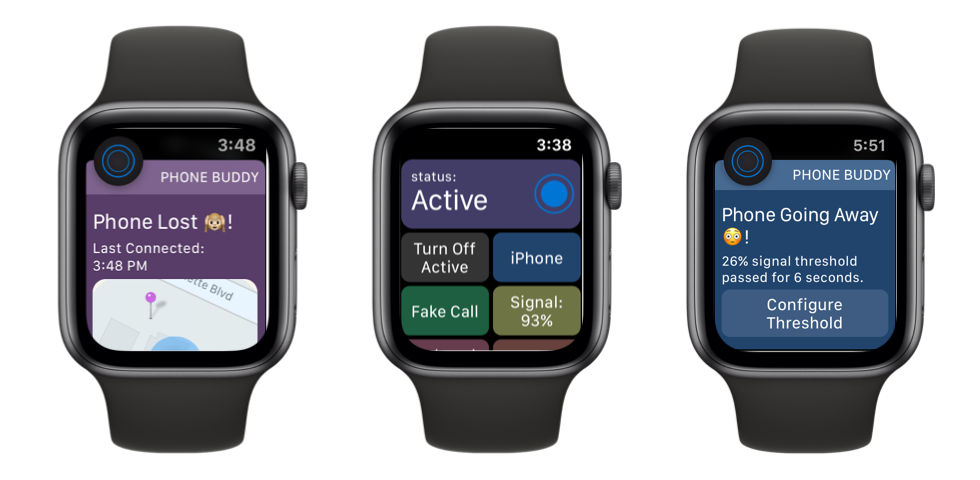
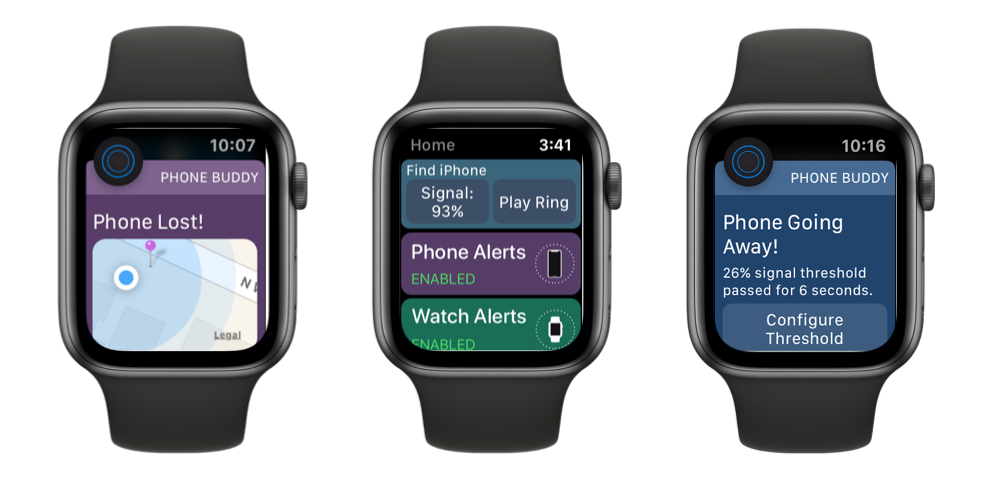
updates for version 6.0

diff --git a/index.html b/index.html
@@ -4,53 +4,49 @@
 <head>
 
     <meta charset="utf-8">
-    <title>Phone Buddy Notifier</title>
+    <title>Phone Buddy Alarm</title>
     <meta name="apple-itunes-app" content="app-id=1451559391, affiliate-data=ct=WebsiteHome"/>
-    <meta name="description" content="The only Apple Watch app you need. Phone Buddy on Apple Watch alerts you if you lose bluetooth connection with your iPhone and reminds you if you forget your Apple Watch. Phone Buddy is an Apple Watch app that alerts you when you lose bluetooth connection with your iPhone. Try it now. Apple Watch Series 2+ is required.
+    <meta name="description" content="The only Apple Watch app you need. Phone Buddy on Apple Watch alerts you if you lose bluetooth connection with your iPhone and reminds you if you forget your Apple Watch. Phone Buddy Alarm is an Apple Watch app that alerts you when you lose bluetooth connection with your iPhone. Try it now. Apple Watch Series 2+ is required.
 
-    Phone Buddy keeps track of your Apple Watch and alerts you when needed. Phone Buddy Alerts can be configured to display when your iPhone connection is lost, when Apple Watch battery has completed charging, or when devices move apart!
+    Phone Buddy keeps track of your Apple Watch and alerts you when needed. Phone Buddy Alerts can be configured to display when your iPhone connection is lost, when you leave your Apple Watch behind, or when devices move apart! With Phone Buddy Alarm, if you step away from your iPhone, you get a notification on your Apple Watch! It’s that simple. 
     
-    Phone Buddy is the perfect companion app for Apple Watch with features like Bluetooth Monitoring Alerts, Last Connected Map to help locating iPhone, and Fake Call to use your Apple Watch to play a Ringtone on your iPhone! 
+    You can even configure a loud alarm so you know for sure when your devices may be need to retrieved. 
     
-    Phone Buddy Bluetooth Monitoring Alerts
-    - Lost Phone Alert (with Active Mode)
-    - Distance Alerts with fully customizable signal strength and time thresholds! 
-    - Battery Charged Alert 
-    - Watch Left Behind Alert 
+    Phone Buddy Alarm is the perfect companion app for the Apple Watch with features like Bluetooth Monitoring Alerts, Watch Battery Charged Alert, and Last Connected Map. 
     
-    Phone Buddy Features
-    - Last Connected Map to help located iPhone (when network connectivity available)
-    - Monitor Bluetooth Connection Signal Strength
-    - iPhone Info and Bluetooth Monitoring alert management directly on the Apple Watch. 
-    - Play a ringtone on your iPhone using Fake Call from your Apple Watch even when the iPhone is on silent
-    - Configure a loud Alarm to play when bluetooth connection is lost between your Apple Watch and iPhone
+    Phone Buddy Bluetooth Monitoring Features
+    - “Phone Lost” Connection Alert so you never lose your phone again. 
+    - “Going Away” Distance Alerts with fully customizable bluetooth signal strength thresholds so you keep your devices safe and secure. 
+    - “Watch Left Behind” Connection Alert so you don’t forget to wear your Apple Watch when you leave your home. 
+    - “Watch Battery Charged” Alert lets you know when your Apple Watch is ready to go. 
+    - Phone Safety Alarm plays a loud Alarm when bluetooth connection is lost between your Apple Watch and iPhone to keep everything safe. 
+    - Last Connected Map to help located iPhone (when network connectivity available) if your devices do disconnect.
+    And more! 
     
-    Don't forget your iPhone again using Phone Buddy for Apple Watch! Phone Buddy notifies your Apple Watch the moment bluetooth connection is lost with your iPhone. If someone takes your iPhone, Phone Buddy will alert you with a Phone Lost Safety Notification. Phone Buddy is better than phone insurance since it helps prevent a loss! 
+    Don't forget your iPhone again using Phone Buddy Alarm for Apple Watch! Phone Buddy notifies your Apple Watch the moment bluetooth connection is lost with your iPhone. If someone takes your iPhone, Phone Buddy will alert you with a Phone Lost Safety Notification. Phone Buddy is better than phone insurance since it helps prevent a loss! 
     
     Download Phone Buddy now and never lose your phone again.">
     <meta name="viewport" content="width=device-width, initial-scale=1">
 
-    <meta property="og:title" content="Phone Buddy Notifier" />
-    <meta property="og:description" content="The only Apple Watch app you need. Phone Buddy on Apple Watch alerts you if you lose bluetooth connection with your iPhone and reminds you if you forget your Apple Watch. Phone Buddy is an Apple Watch app that alerts you when you lose bluetooth connection with your iPhone. Try it now. Apple Watch Series 2+ is required.
+    <meta property="og:title" content="Phone Buddy Alarm" />
+    <meta property="og:description" content="The only Apple Watch app you need. Phone Buddy on Apple Watch alerts you if you lose bluetooth connection with your iPhone and reminds you if you forget your Apple Watch. Phone Buddy Alarm is an Apple Watch app that alerts you when you lose bluetooth connection with your iPhone. Try it now. Apple Watch Series 2+ is required.
 
-    Phone Buddy keeps track of your Apple Watch and alerts you when needed. Phone Buddy Alerts can be configured to display when your iPhone connection is lost, when Apple Watch battery has completed charging, or when devices move apart!
+    Phone Buddy keeps track of your Apple Watch and alerts you when needed. Phone Buddy Alerts can be configured to display when your iPhone connection is lost, when you leave your Apple Watch behind, or when devices move apart! With Phone Buddy Alarm, if you step away from your iPhone, you get a notification on your Apple Watch! It’s that simple. 
     
-    Phone Buddy is the perfect companion app for Apple Watch with features like Bluetooth Monitoring Alerts, Last Connected Map to help locating iPhone, and Fake Call to use your Apple Watch to play a Ringtone on your iPhone! 
+    You can even configure a loud alarm so you know for sure when your devices may be need to retrieved. 
     
-    Phone Buddy Bluetooth Monitoring Alerts
-    - Lost Phone Alert (with Active Mode)
-    - Distance Alerts with fully customizable signal strength and time thresholds! 
-    - Battery Charged Alert 
-    - Watch Left Behind Alert 
+    Phone Buddy Alarm is the perfect companion app for the Apple Watch with features like Bluetooth Monitoring Alerts, Watch Battery Charged Alert, and Last Connected Map. 
     
-    Phone Buddy Features
-    - Last Connected Map to help located iPhone (when network connectivity available)
-    - Monitor Bluetooth Connection Signal Strength
-    - iPhone Info and Bluetooth Monitoring alert management directly on the Apple Watch. 
-    - Play a ringtone on your iPhone using Fake Call from your Apple Watch even when the iPhone is on silent
-    - Configure a loud Alarm to play when bluetooth connection is lost between your Apple Watch and iPhone
+    Phone Buddy Bluetooth Monitoring Features
+    - “Phone Lost” Connection Alert so you never lose your phone again. 
+    - “Going Away” Distance Alerts with fully customizable bluetooth signal strength thresholds so you keep your devices safe and secure. 
+    - “Watch Left Behind” Connection Alert so you don’t forget to wear your Apple Watch when you leave your home. 
+    - “Watch Battery Charged” Alert lets you know when your Apple Watch is ready to go. 
+    - Phone Safety Alarm plays a loud Alarm when bluetooth connection is lost between your Apple Watch and iPhone to keep everything safe. 
+    - Last Connected Map to help located iPhone (when network connectivity available) if your devices do disconnect.
+    And more! 
     
-    Don't forget your iPhone again using Phone Buddy for Apple Watch! Phone Buddy notifies your Apple Watch the moment bluetooth connection is lost with your iPhone. If someone takes your iPhone, Phone Buddy will alert you with a Phone Lost Safety Notification. Phone Buddy is better than phone insurance since it helps prevent a loss! 
+    Don't forget your iPhone again using Phone Buddy Alarm for Apple Watch! Phone Buddy notifies your Apple Watch the moment bluetooth connection is lost with your iPhone. If someone takes your iPhone, Phone Buddy will alert you with a Phone Lost Safety Notification. Phone Buddy is better than phone insurance since it helps prevent a loss! 
     
     Download Phone Buddy now and never lose your phone again."/>
     <meta property="og:type" content="website" />
@@ -179,7 +175,7 @@
         </div>
         <div class="row buttons">
             <a href="https://itunes.apple.com/app/apple-store/id1451559391?pt=1925860&ct=WebsiteHome&mt=8">    
-                <img src="appStore.png" alt="Phone Buddy Notifier App Store Link">
+                <img src="appStore.png" alt="Phone Buddy Alarm App Store Link">
             </a>
         </div>
 

diff --git a/app.html b/app.html
@@ -4,53 +4,49 @@
 <head>
 
     <meta charset="utf-8">
-    <title>Phone Buddy Notifier</title>
+    <title>Phone Buddy Alarm</title>
     <meta name="apple-itunes-app" content="app-id=1451559391, affiliate-data=ct=instaApp0"/>
-    <meta name="description" content="The only Apple Watch app you need. Phone Buddy on Apple Watch alerts you if you lose bluetooth connection with your iPhone and reminds you if you forget your Apple Watch. Phone Buddy is an Apple Watch app that alerts you when you lose bluetooth connection with your iPhone. Try it now. Apple Watch Series 2+ is required.
+    <meta name="description" content="The only Apple Watch app you need. Phone Buddy on Apple Watch alerts you if you lose bluetooth connection with your iPhone and reminds you if you forget your Apple Watch. Phone Buddy Alarm is an Apple Watch app that alerts you when you lose bluetooth connection with your iPhone. Try it now. Apple Watch Series 2+ is required.
 
-    Phone Buddy keeps track of your Apple Watch and alerts you when needed. Phone Buddy Alerts can be configured to display when your iPhone connection is lost, when Apple Watch battery has completed charging, or when devices move apart!
+    Phone Buddy keeps track of your Apple Watch and alerts you when needed. Phone Buddy Alerts can be configured to display when your iPhone connection is lost, when you leave your Apple Watch behind, or when devices move apart! With Phone Buddy Alarm, if you step away from your iPhone, you get a notification on your Apple Watch! It’s that simple. 
     
-    Phone Buddy is the perfect companion app for Apple Watch with features like Bluetooth Monitoring Alerts, Last Connected Map to help locating iPhone, and Fake Call to use your Apple Watch to play a Ringtone on your iPhone! 
+    You can even configure a loud alarm so you know for sure when your devices may be need to retrieved. 
     
-    Phone Buddy Bluetooth Monitoring Alerts
-    - Lost Phone Alert (with Active Mode)
-    - Distance Alerts with fully customizable signal strength and time thresholds! 
-    - Battery Charged Alert 
-    - Watch Left Behind Alert 
+    Phone Buddy Alarm is the perfect companion app for the Apple Watch with features like Bluetooth Monitoring Alerts, Watch Battery Charged Alert, and Last Connected Map. 
     
-    Phone Buddy Features
-    - Last Connected Map to help located iPhone (when network connectivity available)
-    - Monitor Bluetooth Connection Signal Strength
-    - iPhone Info and Bluetooth Monitoring alert management directly on the Apple Watch. 
-    - Play a ringtone on your iPhone using Fake Call from your Apple Watch even when the iPhone is on silent
-    - Configure a loud Alarm to play when bluetooth connection is lost between your Apple Watch and iPhone
+    Phone Buddy Bluetooth Monitoring Features
+    - “Phone Lost” Connection Alert so you never lose your phone again. 
+    - “Going Away” Distance Alerts with fully customizable bluetooth signal strength thresholds so you keep your devices safe and secure. 
+    - “Watch Left Behind” Connection Alert so you don’t forget to wear your Apple Watch when you leave your home. 
+    - “Watch Battery Charged” Alert lets you know when your Apple Watch is ready to go. 
+    - Phone Safety Alarm plays a loud Alarm when bluetooth connection is lost between your Apple Watch and iPhone to keep everything safe. 
+    - Last Connected Map to help located iPhone (when network connectivity available) if your devices do disconnect.
+    And more! 
     
-    Don't forget your iPhone again using Phone Buddy for Apple Watch! Phone Buddy notifies your Apple Watch the moment bluetooth connection is lost with your iPhone. If someone takes your iPhone, Phone Buddy will alert you with a Phone Lost Safety Notification. Phone Buddy is better than phone insurance since it helps prevent a loss! 
+    Don't forget your iPhone again using Phone Buddy Alarm for Apple Watch! Phone Buddy notifies your Apple Watch the moment bluetooth connection is lost with your iPhone. If someone takes your iPhone, Phone Buddy will alert you with a Phone Lost Safety Notification. Phone Buddy is better than phone insurance since it helps prevent a loss! 
     
     Download Phone Buddy now and never lose your phone again.">
     <meta name="viewport" content="width=device-width, initial-scale=1">
 
-    <meta property="og:title" content="Phone Buddy Notifier" />
-    <meta property="og:description" content="The only Apple Watch app you need. Phone Buddy on Apple Watch alerts you if you lose bluetooth connection with your iPhone and reminds you if you forget your Apple Watch. Phone Buddy is an Apple Watch app that alerts you when you lose bluetooth connection with your iPhone. Try it now. Apple Watch Series 2+ is required.
+    <meta property="og:title" content="Phone Buddy Alarm" />
+    <meta property="og:description" content="The only Apple Watch app you need. Phone Buddy on Apple Watch alerts you if you lose bluetooth connection with your iPhone and reminds you if you forget your Apple Watch. Phone Buddy Alarm is an Apple Watch app that alerts you when you lose bluetooth connection with your iPhone. Try it now. Apple Watch Series 2+ is required.
 
-    Phone Buddy keeps track of your Apple Watch and alerts you when needed. Phone Buddy Alerts can be configured to display when your iPhone connection is lost, when Apple Watch battery has completed charging, or when devices move apart!
+    Phone Buddy keeps track of your Apple Watch and alerts you when needed. Phone Buddy Alerts can be configured to display when your iPhone connection is lost, when you leave your Apple Watch behind, or when devices move apart! With Phone Buddy Alarm, if you step away from your iPhone, you get a notification on your Apple Watch! It’s that simple. 
     
-    Phone Buddy is the perfect companion app for Apple Watch with features like Bluetooth Monitoring Alerts, Last Connected Map to help locating iPhone, and Fake Call to use your Apple Watch to play a Ringtone on your iPhone! 
+    You can even configure a loud alarm so you know for sure when your devices may be need to retrieved. 
     
-    Phone Buddy Bluetooth Monitoring Alerts
-    - Lost Phone Alert (with Active Mode)
-    - Distance Alerts with fully customizable signal strength and time thresholds! 
-    - Battery Charged Alert 
-    - Watch Left Behind Alert 
+    Phone Buddy Alarm is the perfect companion app for the Apple Watch with features like Bluetooth Monitoring Alerts, Watch Battery Charged Alert, and Last Connected Map. 
     
-    Phone Buddy Features
-    - Last Connected Map to help located iPhone (when network connectivity available)
-    - Monitor Bluetooth Connection Signal Strength
-    - iPhone Info and Bluetooth Monitoring alert management directly on the Apple Watch. 
-    - Play a ringtone on your iPhone using Fake Call from your Apple Watch even when the iPhone is on silent
-    - Configure a loud Alarm to play when bluetooth connection is lost between your Apple Watch and iPhone
+    Phone Buddy Bluetooth Monitoring Features
+    - “Phone Lost” Connection Alert so you never lose your phone again. 
+    - “Going Away” Distance Alerts with fully customizable bluetooth signal strength thresholds so you keep your devices safe and secure. 
+    - “Watch Left Behind” Connection Alert so you don’t forget to wear your Apple Watch when you leave your home. 
+    - “Watch Battery Charged” Alert lets you know when your Apple Watch is ready to go. 
+    - Phone Safety Alarm plays a loud Alarm when bluetooth connection is lost between your Apple Watch and iPhone to keep everything safe. 
+    - Last Connected Map to help located iPhone (when network connectivity available) if your devices do disconnect.
+    And more! 
     
-    Don't forget your iPhone again using Phone Buddy for Apple Watch! Phone Buddy notifies your Apple Watch the moment bluetooth connection is lost with your iPhone. If someone takes your iPhone, Phone Buddy will alert you with a Phone Lost Safety Notification. Phone Buddy is better than phone insurance since it helps prevent a loss! 
+    Don't forget your iPhone again using Phone Buddy Alarm for Apple Watch! Phone Buddy notifies your Apple Watch the moment bluetooth connection is lost with your iPhone. If someone takes your iPhone, Phone Buddy will alert you with a Phone Lost Safety Notification. Phone Buddy is better than phone insurance since it helps prevent a loss! 
     
     Download Phone Buddy now and never lose your phone again."/>
     <meta property="og:type" content="website" />
@@ -179,7 +175,7 @@
         </div>
         <div class="row buttons">
             <a href="https://apps.apple.com/app/apple-store/id1451559391?pt=1925860&ct=instaApp0&mt=8">    
-                <img src="appStore.png" alt="Phone Buddy Notifier App Store Link">
+                <img src="appStore.png" alt="Phone Buddy Alarm App Store Link">
             </a>
         </div>
 

diff --git a/pbApp.html b/pbApp.html
@@ -38,47 +38,36 @@ img {
 
 <h2>The only Apple Watch app you need. Phone Buddy on Apple Watch alerts you if you lose bluetooth connection with your iPhone and reminds you if you forget your Apple Watch.</h2>
 
-<p>Phone Buddy is an Apple Watch app that alerts you when you lose bluetooth connection with your iPhone. Try it now. Apple Watch Series 2+ is required.</p>
+<p>Phone Buddy Alarm is an Apple Watch app that alerts you when you lose bluetooth connection with your iPhone. Try it now. Apple Watch Series 2+ is required.</p>
 
-<p>Phone Buddy keeps track of your Apple Watch and alerts you when needed. Phone Buddy Alerts can be configured to display when your iPhone connection is lost, when Apple Watch battery has completed charging, or when devices move apart!</p>
+<p>Phone Buddy keeps track of your Apple Watch and alerts you when needed. Phone Buddy Alerts can be configured to display when your iPhone connection is lost, when you leave your Apple Watch behind, or when devices move apart! With Phone Buddy Alarm, if you step away from your iPhone, you get a notification on your Apple Watch! It’s that simple.</p>
 
-<p>Phone Buddy is the perfect companion app for Apple Watch with features like Bluetooth Monitoring Alerts, Last Connected Map to help locating iPhone, and Fake Call to use your Apple Watch to play a Ringtone on your iPhone!</p>
+<p>You can even configure a loud alarm so you know for sure when your devices may be need to retrieved.</p>
 
-<h3>Phone Buddy Bluetooth Monitoring Alerts</h3>
-<li>Lost Phone Alert (with Active Mode)</li>
-<li>Distance Alerts with fully customizable signal strength and time thresholds!</li>
-<li>Battery Charged Alert</li>
-<li>Watch Left Behind Alert</li>
+<p>Phone Buddy Alarm is the perfect companion app for the Apple Watch with features like Bluetooth Monitoring Alerts, Watch Battery Charged Alert, and Last Connected Map.</p>
 
 <img src="AppScreens2.png" alt="Phone Buddy Notifer on Apple Watch displaying iPhone information, monitoring alerts configuration, and alert threshold settings.">
 
-<h3>Phone Buddy Features</h3>
-<li>Last Connected Map to help located iPhone (when network connectivity available)</li>
-<li>Monitor Bluetooth Connection Signal Strength</li>
-<li>iPhone Info and Bluetooth Monitoring alert management directly on the Apple Watch</li>
-<li>Play a ringtone on your iPhone using Fake Call from your Apple Watch even when the iPhone is on silent</li>
-<li>Configure a loud Alarm to play when bluetooth connection is lost between your Apple Watch and iPhone</li>
-
-<h3></h3>
-
-<p>Don't forget your iPhone again using Phone Buddy for Apple Watch! Phone Buddy notifies your Apple Watch the moment bluetooth connection is lost with your iPhone. If someone takes your iPhone, Phone Buddy will alert you with a Phone Lost Safety Notification. Phone Buddy is better than phone insurance since it helps prevent a loss!</p>
-
-<h2>Download Phone Buddy now and never lose your phone again.</h2>
-
-<p>Phone Buddy Notifier is a freemium app. The premium feature is called Active Mode and grants access to Phone Lost Alert and Last Connected Map. All other app features are free.</p>
-
-<p>To get Active Mode you can subscribe OR pay for it one time. The subscription and lifetime payment grant access to the same feature, Active Mode. The lifetime payment means you will never have to pay again. We offer subscriptions to allow for free trials and for those who want to support continued development.
-</p>
-
-<p>We do not advertise in app or sell data. In app purchases and subscriptions through the App Store are the only revenue stream for Phone Buddy Notifier.
-</p>
-
-<p>We really love our subscribers. You are the ones that truly enable the app to keep improving. Thank you!</p>
+<h3>Phone Buddy Bluetooth Monitoring Features</h3>
+<li>“Phone Lost” Connection Alert so you never lose your phone again.</li>
+<li>“Going Away” Distance Alerts with fully customizable bluetooth signal strength thresholds so you keep your devices safe and secure. </li>
+<li>“Watch Left Behind” Connection Alert so you don’t forget to wear your Apple Watch when you leave your home. </li>
+<li>“Watch Battery Charged” Alert lets you know when your Apple Watch is ready to go. </li>
+<li>Phone Safety Alarm plays a loud Alarm when bluetooth connection is lost between your Apple Watch and iPhone to keep everything safe. </li>
+<li>Last Connected Map to help located iPhone (when network connectivity available) if your devices do disconnect.
+    And more! </li>
 
 <img src="AppScreens3.png" alt="Phone Buddy Notifer on Apple Watch displaying Phone Lost Alert settings, Apple Watch Complication, and Phone Found alert.">
 
-<div class="separator"></div>
+<h2>Download Phone Buddy now and never lose your phone again.</h2>
 
+<p>Don't forget your iPhone again using Phone Buddy Alarm for Apple Watch! Phone Buddy notifies your Apple Watch the moment bluetooth connection is lost with your iPhone. If someone takes your iPhone, Phone Buddy will alert you with a Phone Lost Safety Notification. Phone Buddy is better than phone insurance since it helps prevent a loss! </p>
+
+<p>Download Phone Buddy now and never lose your phone again.</p>
+
+<p>Phone Buddy is compatible with the following  Bluetooth LE enabled Apple Watch models running WatchOS 5 or later: Apple Watch Series 2, Apple Watch Series 3, Apple Watch Series 4, and Apple Watch Series 5.</p>
+
+<div class="separator"></div>
 
 <div class="row footer end">
 

diff --git a/pbStory.html b/pbStory.html
@@ -26,17 +26,17 @@
 
 <h2>One developer and a few friends based in Portland, Oregon.</h2>
 
-<p>In May of 2018 I arrived to the train station and checking for my ticket I realized I didn't have my iPhone with me. Damn, back at the office. I had to turn around and walk back the 10 minutes just because I had left my iPhone behind, again. Why couldn't my Apple Watch, which pretty much stayed on my wrist throughout the day, just let me know that I didn't have my iPhone with me? ... and thus Phone Buddy Notifier was born.  </p>
+<p>I made this app for the forgetful ones. Some time ago I arrived to the train station and checking for my ticket I realized I didn't have my iPhone with me.  Damn, back at the office. Why couldn't my Apple Watch, which remained on my wrist throughout the day, just let me know that I didn't have my iPhone with me? With that simple idea Phone Buddy Alarm was born.</p>
 
 <h2>Apple Watch Focus.</h2>
 
-<p>We love the Apple Watch! Our app is designed to complement the Apple Watch, with deep monitoring alerts integration and feature sets expanding into more Apple Watch related areas.</p>
+<p>We love the Apple Watch! Phone Buddy Alarm is designed to complement the Apple Watch and help keep your devices secure. </p>
 
 <h2>We don't sell or distribute your data. Ever.</h2>
 
-<p>We belive in protecting privacy (see <a href="legal/pbPrivacy.html">Privacy Notice</a>) and go so far as to refuse to use Ad Networks or Analytics SDKs in our app.</p>
+<p>We belive in protecting privacy (see <a href="legal/pbPrivacy.html">Privacy Notice</a>) so we do not monetize any user data. In fact, any usage data remains on your device, is never sent to an external server, and is removed when app is deleted. Further, we refuse to use Ad Networks or Analytics SDKs in our app.</p>
 
-<p class="callout"><b>More about this policy: </b>We do not use or include in app any code from Google, Facebook, Admob, or any Analytics SDK or Ad Network SDK.</p>
+<p class="callout"><b>More about this policy: </b>To guarantee user privacy we do not use or include in app any code from Google, Facebook, Admob, or any Analytics SDK or Ad Network SDK.</p>
 
 <div class="separator"></div>
 

diff --git a/pbHelp.html b/pbHelp.html
@@ -24,15 +24,7 @@
 
 <h1>Help</h1>
 
-<p>Phone Buddy Notifier is an Apple Watch app that alerts you when you lose bluetooth connection with your iPhone. Phone Buddy keeps track of your Apple Watch and alerts you when needed. Phone Buddy Alerts can be configured to display when your iPhone connection is lost, when Apple Watch battery has completed charging, or when devices move apart!</p>
-
-<h2>Pricing.</h2>
-<p>Phone Buddy Notifier is a freemium app. The premium feature is called Active Mode and grants access to Phone Lost Alert and Last Connected Map. All other app features are free. </p>
-<p>To get Active Mode you can subscribe OR pay for it one time. The subscription and one time payment grant access to the same feature, Active Mode. The One Time payment means you will never have to pay again. We offer subscriptions to allow for free trials and for those who want to support continued development.</p>
-<p>You can move from the free trial directly to the Lifetime payment within the App. Go to the Help Tab > Scroll Down to Account section > and press "Switch to Lifetime Payment".</p>
-
-<p>We do not advertise in app or sell data. In app purchases and subscriptions through the App Store are the only revenue stream for Phone Buddy Notifier.</p>
-<p>We really love our subscribers. You are the ones that truly enable the app to keep improving. Thank you!</p>
+<p>Phone Buddy Alarm is an Apple Watch app that alerts you when you lose bluetooth connection with your iPhone. Phone Buddy keeps track of your Apple Watch and alerts you when needed. Phone Buddy Alerts can be configured to display when your iPhone connection is lost, when Apple Watch battery has completed charging, or when devices move apart!</p>
 
 <h2>Why did I not get a Phone Lost Notification when my iPhone was left behind?</h2>
 

diff --git a/legal/pbPrivacy.html b/legal/pbPrivacy.html
@@ -23,7 +23,7 @@
 
 <h1>Privacy Notice</h1>
 <p>Last updated: March 3, 2020</p>
-<p>FRE Studios (and our app Phone Buddy Notifier) are commited protecting your privacy. Phone Buddy is an Apple Watch app that alerts you when you lose bluetooth connection with your iPhone and at other key events.</p>
+<p>FRE Studios (and our app Phone Buddy Alarm) are commited protecting your privacy. Phone Buddy is an Apple Watch app that alerts you when you lose bluetooth connection with your iPhone and at other key events.</p>
 <p>As part of our commitment to privacy, WE DO NOT COLLECT ANY PERSONALLY IDENTIFIABLE INFORMATION THROUGH OUR APPLICATION OR WEBSITE.</p>
 <h2>SCOPE</h2>
 <p>This Privacy Notice applies to personal information processed by us in our business, including on our websites, mobile applications, and other online or offline offerings (collectively, the "Services").</p>
